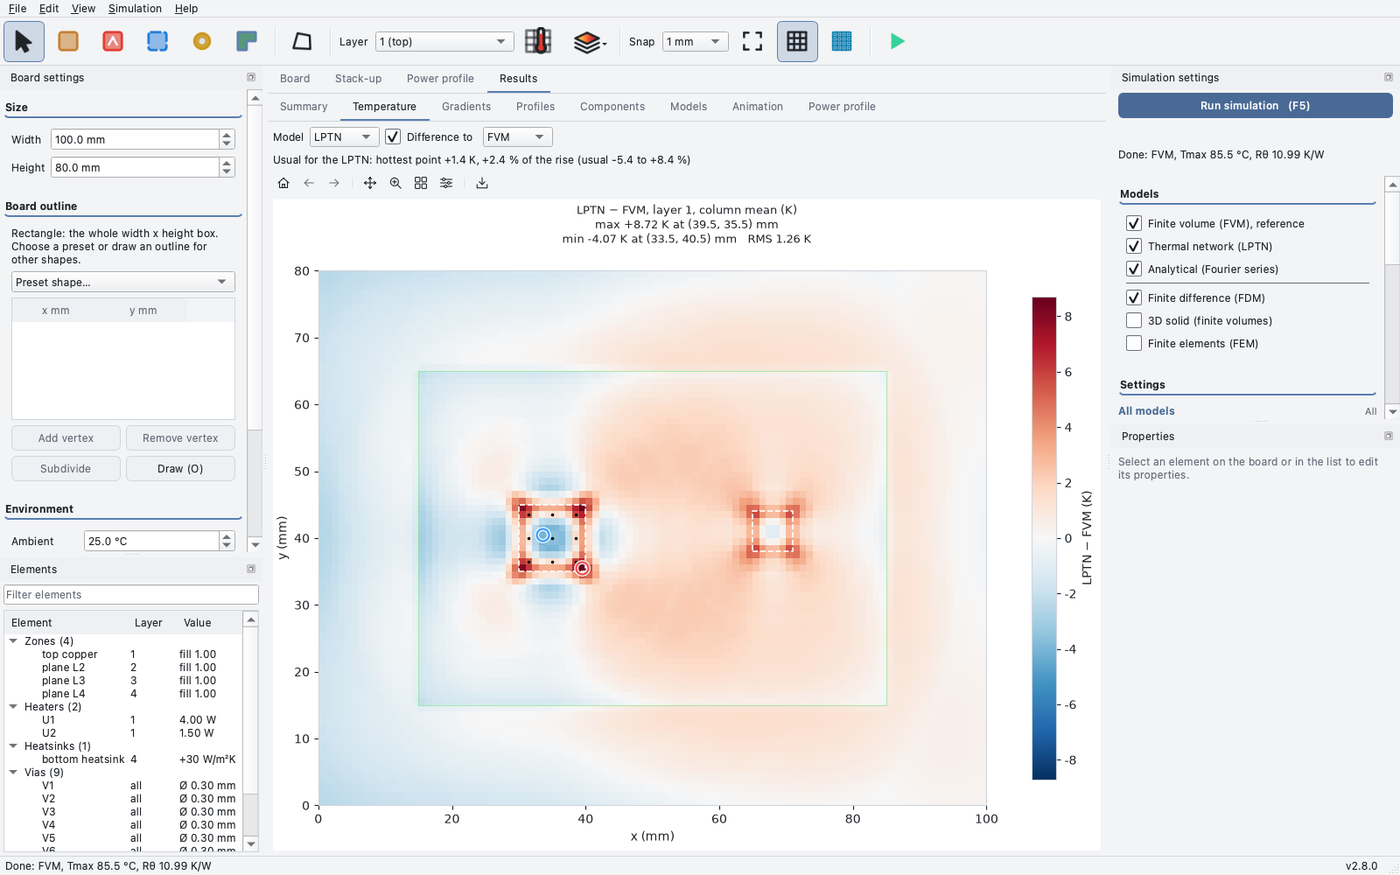
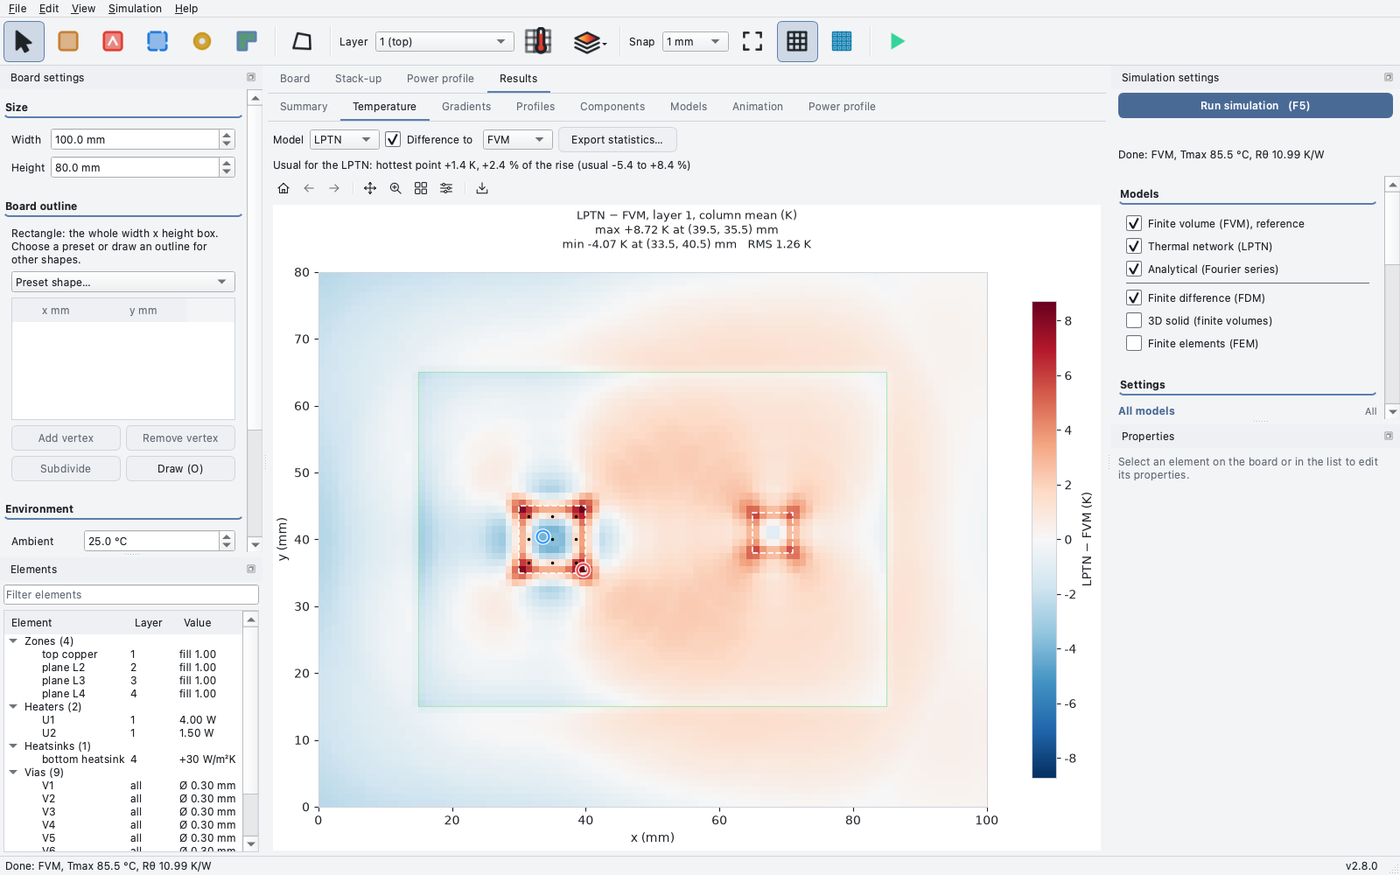
Regenerate the Components, Summary and Difference pictures and describe them in the manual
The Components tables append the surface column, the report names every
read-out and the Difference view has an Export statistics button.

Claude-Session: https://claude.ai/code/session_01XgeLDd5tWg6CEJL9TQpCpU

diff --git a/docs/USER_MANUAL.md b/docs/USER_MANUAL.md
@@ -831,8 +831,8 @@ with or without these columns. The card of the map on the board reads *max .. °
 
 ![The Components page](images/results_components.png)
 
-*Figure 16. Results - Components of the example board: heaters, zones and the chart of the
-parts.*
+*Figure 16. Results - Components of the example board: heaters, zones (column read-out with the
+surface appended), the hotspot table and the chart of the parts.*
 
 ### 5.6 Models
 
@@ -1124,7 +1124,8 @@ are in the header names (`max_k`, `max_x_mm`, ...). The command line has no Diff
 
 *Figure 28. Results - Temperature with Difference to FVM on the LPTN (example board, four models,
 1 mm cells): the map of LPTN minus FVM in K, the largest and smallest difference ringed, the
-title with both models and the read-out, and the verdict line under the controls.*
+title with both models and the read-out, the verdict line under the controls and the **Export
+statistics…** button.*
 
 ## 6. Settings reference
 
